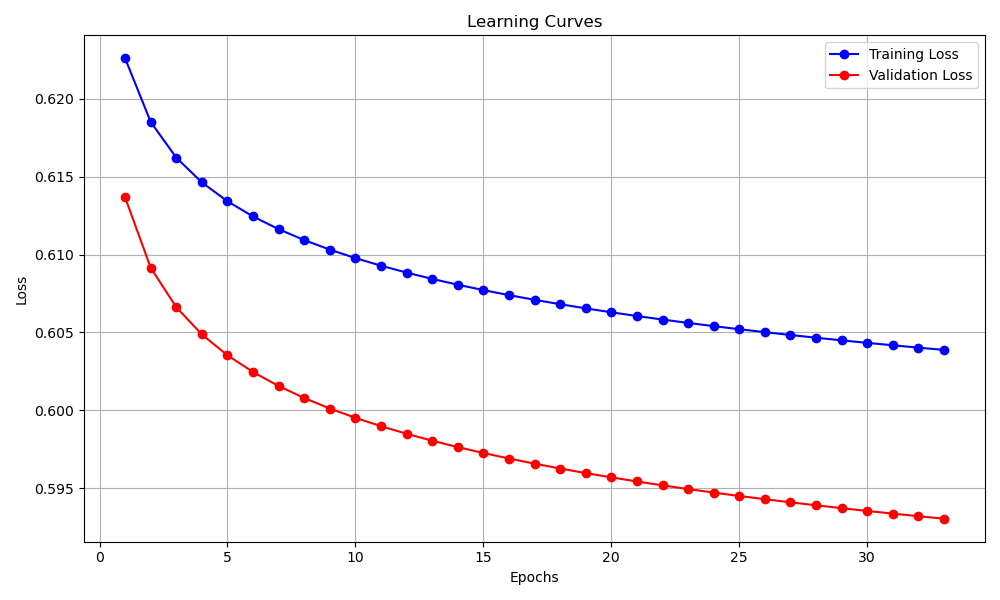
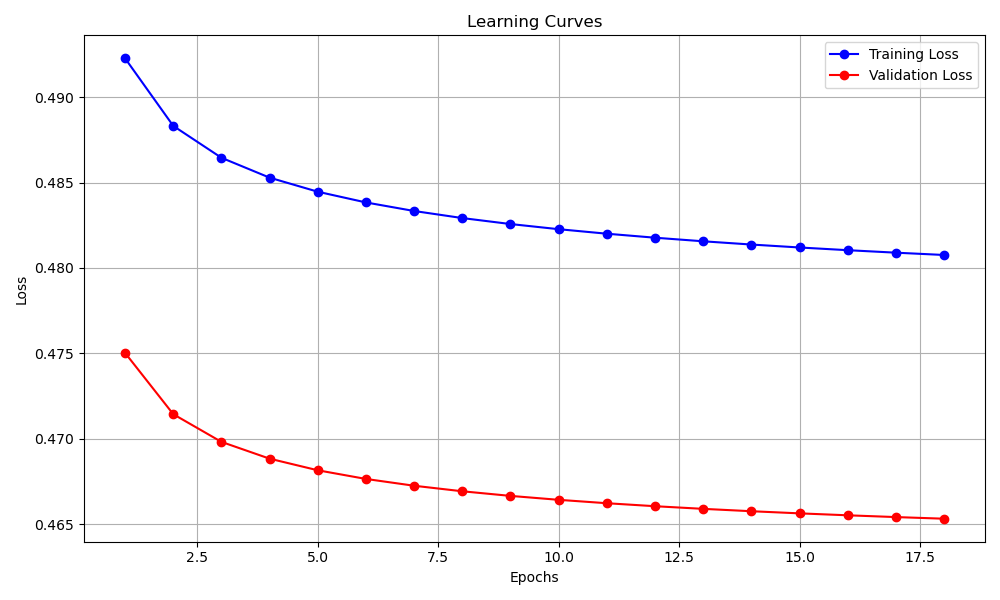
Best hparams updated

diff --git a/ml/hyperparameter_choice.py b/ml/hyperparameter_choice.py
@@ -18,10 +18,10 @@ HPARAMS_FOR_OPTIMIZATION: Dict[str, List[Union[int, float, str]]] = {
 # Dictionary containing the best hyperparameters found
 BEST_HPARAMS: Dict[str, List[Union[int, float, str]]] = {
     'n_iterations': [5000],
-    'learning_rate': [0.1],
+    'learning_rate': [0.05],
     'regularization': [0.001],
-    'l1_ratio': [0],
-    'decay_rate': [0.5],
+    'l1_ratio': [0.2],
+    'decay_rate': [0.006],
     'decay_type': ["time"],
 }
 

diff --git a/README.md b/README.md
@@ -125,149 +125,7 @@ This project was developed to demonstrate a fully functional machine learning pi
 
 ---
 
-Cross-Validation Summary:
-Accuracy: Mean = 0.8181, Std = 0.0205
-Loss: Mean = 0.3926, Std = 0.0135
-
-Best Hyperparameters:
-n_iterations: 1000
-learning_rate: 0.1
-regularization: 0.0
-decay_rate: 0.01
-decay_type: none
-
-
-
-### Using Class-Weighted Loss to Penalize Misclassified `bot` Cases
-
-Incorporating a class-weighted loss helps handle imbalanced datasets by assigning higher penalties to misclassified samples in underrepresented classes.
-
-#### Implementation Steps:
-
-1. **Add Class Weights**:
-   - Modify the `fit` method to include weights for each class:
-     - Weight for `bot` (positive class) should be higher to penalize false negatives.
-     - Weight for `non-bot` (negative class) can remain lower.
-
-```python
-def fit(self, X: np.ndarray, y: np.ndarray, class_weights=None):
-    if y.ndim > 1 and y.shape[1] == 2:
-        y = y[:, 1]  # Convert one-hot to single-class labels if necessary
-
-    n_samples, n_features = X.shape
-    self.weights = np.zeros(n_features)
-    self.bias = 0
-
-    # Assign default weights if none provided
-    if class_weights is None:
-        class_weights = {0: 1.0, 1: 1.0}
-
-    for _ in range(self.n_iterations):
-        model = np.dot(X, self.weights) + self.bias
-        predictions = self._sigmoid(model)
-
-        # Compute weighted gradients
-        weights_vector = np.array([class_weights[int(label)] for label in y])
-        errors = predictions - y
-
-        dw = (1 / n_samples) * np.dot(X.T, weights_vector * errors) + self.regularization * self.weights
-        db = (1 / n_samples) * np.sum(weights_vector * errors)
-
-        # Update weights and bias
-        self.weights -= self.learning_rate * dw
-        self.bias -= self.learning_rate * db
-
-    self.trained = True
-```
-
-2. **Determine Class Weights**:
-   - Use the class distribution in the dataset to calculate weights:
-     - Example: `class_weights = {0: 1.0, 1: len(y) / np.sum(y)}` (inverse frequency).
-
-3. **Fit the Model with Weights**:
-   - Call `fit` with the `class_weights` hyperparameter.
-
----
-
-### Combining Threshold Adjustment and Weighted Loss
-
-For the best results:
-1. **Train with Weighted Loss**: 
-   - Ensure that the model prioritizes reducing errors on underrepresented classes.
-2. **Optimize the Threshold**:
-   - After training, vary the decision threshold to find the best trade-off between precision and recall.
-
----
-
-### Example of Combined Implementation in `main.py`
-
-```python
-# Training with class weights
-class_weights = {0: 1.0, 1: len(y_train) / np.sum(y_train)}
-final_model = LogisticRegression(
-    learning_rate=best_hparams['learning_rate'],
-    n_iterations=best_hparams['n_iterations'],
-    regularization=best_hparams['regularization']
-)
-final_model.fit(X_train, y_train, class_weights=class_weights)
-
-# Optimize threshold
-thresholds = [0.5, 0.4, 0.3, 0.2]
-for threshold in thresholds:
-    predictions = final_model.predict(X_pred, threshold=threshold)
-    recall = Recall()(original_target, predictions)
-    precision = Precision()(original_target, predictions)
-    print(f"Threshold: {threshold} - Recall: {recall:.4f}, Precision: {precision:.4f}")
-```
-
-
-The collection of best hyperparameters so far:
-
-Best Hyperparameters:
-n_iterations: 5000
-learning_rate: 0.1
-regularization: 0.0001
-decay_rate: 0.006
-decay_type: time
-
-Model Performance Metrics:
-Accuracy: 0.7511
-Precision: 0.7624
-Recall: 0.6509
-F1 Score: 0.7023
-ROC-AUC: 0.8833
-Log Loss: 0.4967
-Confusion Matrix: 
-[[215  43]
- [ 74 138]]
-
-Best Hyperparameters:
-n_iterations: 2000
-learning_rate: 0.1
-regularization: 0.0001
-decay_rate: 0.01
-decay_type: time
-
-Model Performance Metrics:
-Accuracy: 0.7830
-Precision: 0.7037
-Recall: 0.8962
-F1 Score: 0.7884
-ROC-AUC: 0.8285
-Log Loss: 0.4945
-Confusion Matrix: 
-[[178  80]
- [ 22 190]]
-
-Best Hyperparameters:
-n_iterations: 5000
-learning_rate: 0.05
-regularization: 0.001
-l1_ratio: 0.2
-decay_rate: 0.006
-decay_type: time
-
-Model Performance Metrics:
+Best Model Performance Metrics:
 Accuracy: 0.7809
 Precision: 0.7026
 Recall: 0.8915
@@ -277,3 +135,5 @@ Log Loss: 0.4948
 Confusion Matrix: 
 [['TN:178' 'FP:80']
  ['FN:23' 'TP:189']]
+
+ 
